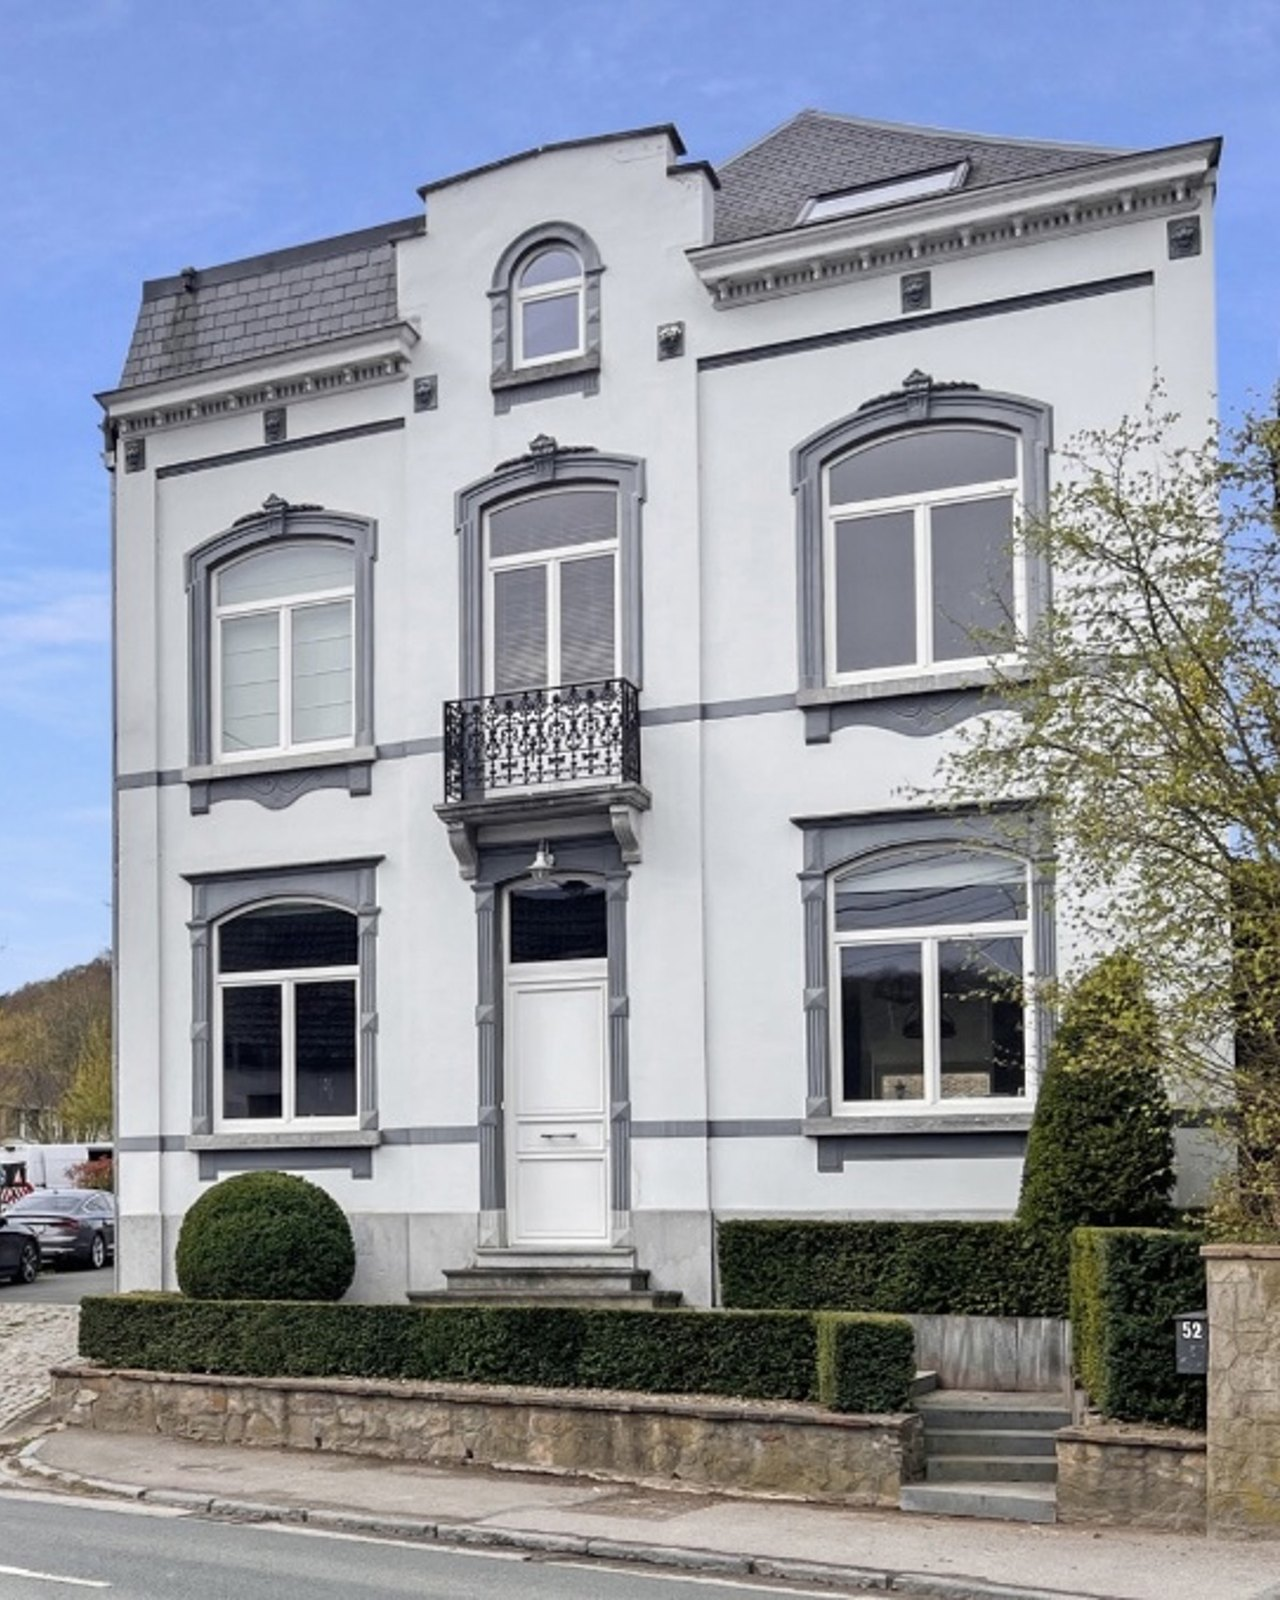
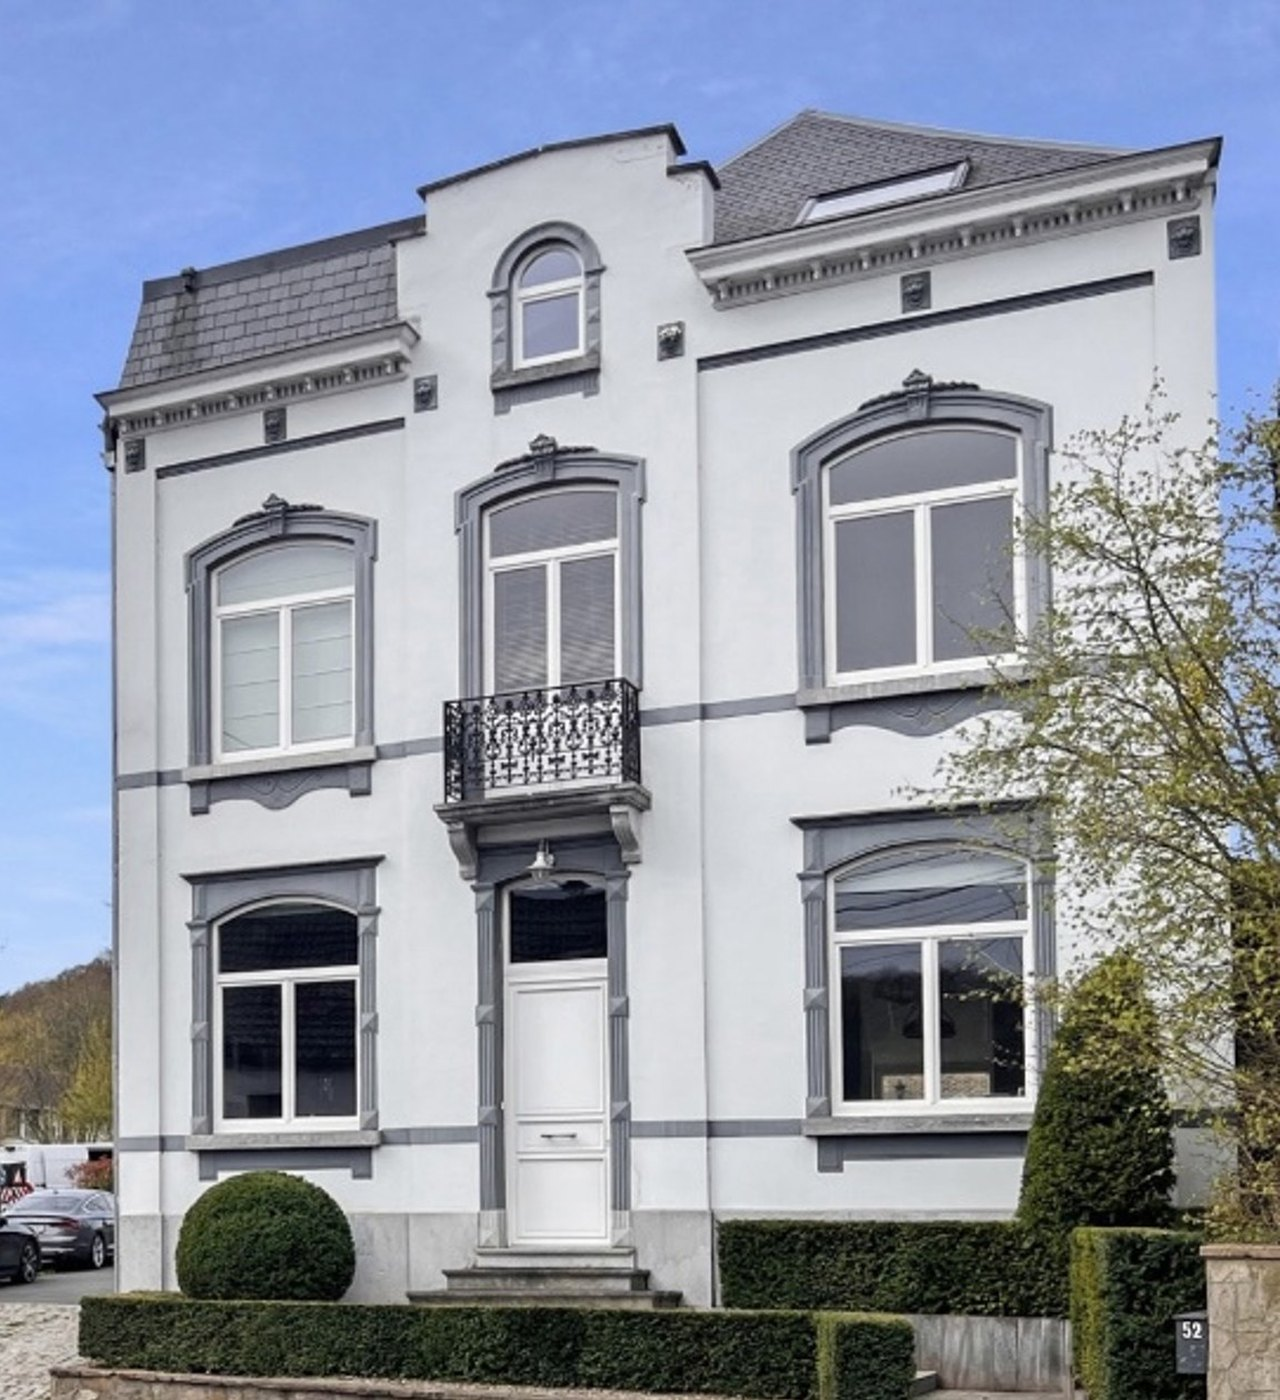
Facade page 01 : coupee au trottoir, sans la route

diff --git a/index.html b/index.html
@@ -371,7 +371,7 @@ h1.wsplit,h2.wsplit,h3.wsplit,h4.wsplit,p.wsplit{display:block}
   <div class="label caps"><span class="tag">01</span><span class="lb">La maison</span></div>
   <div class="split">
     <div class="split-media">
-      <img src="./m52-facade.jpg" alt="Façade de la Maison 52" loading="lazy" width="1280" height="1600">
+      <img src="./m52-facade.jpg" alt="Façade de la Maison 52" loading="lazy" width="1280" height="1400">
     </div>
     <div class="split-body">
       <h3 class="serif">Une maison de maître rénovée pour vivre et <em>travailler</em>.</h3>
